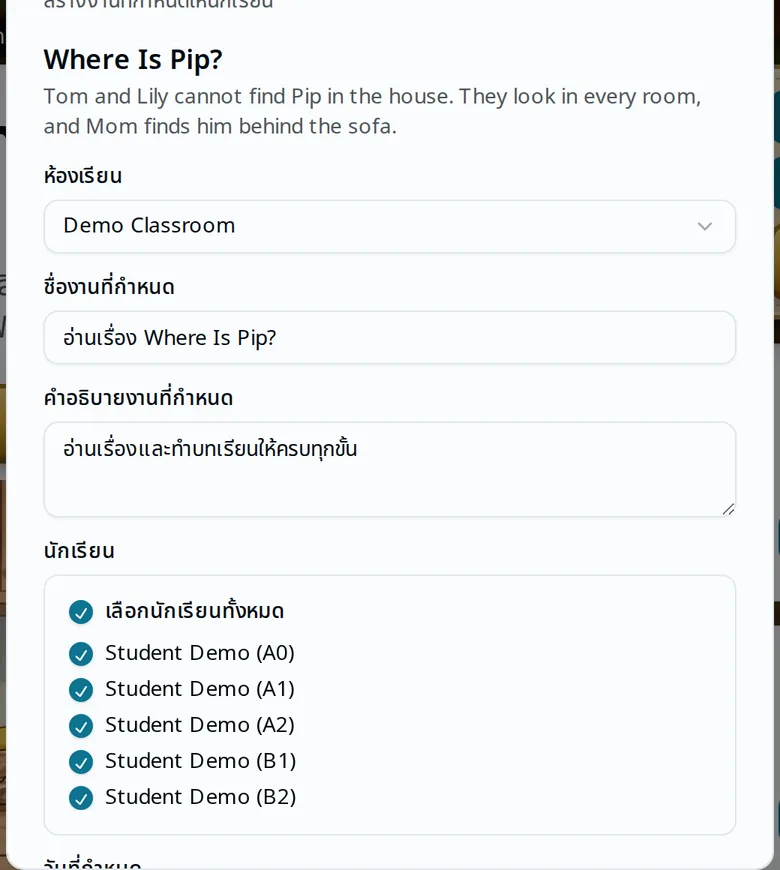
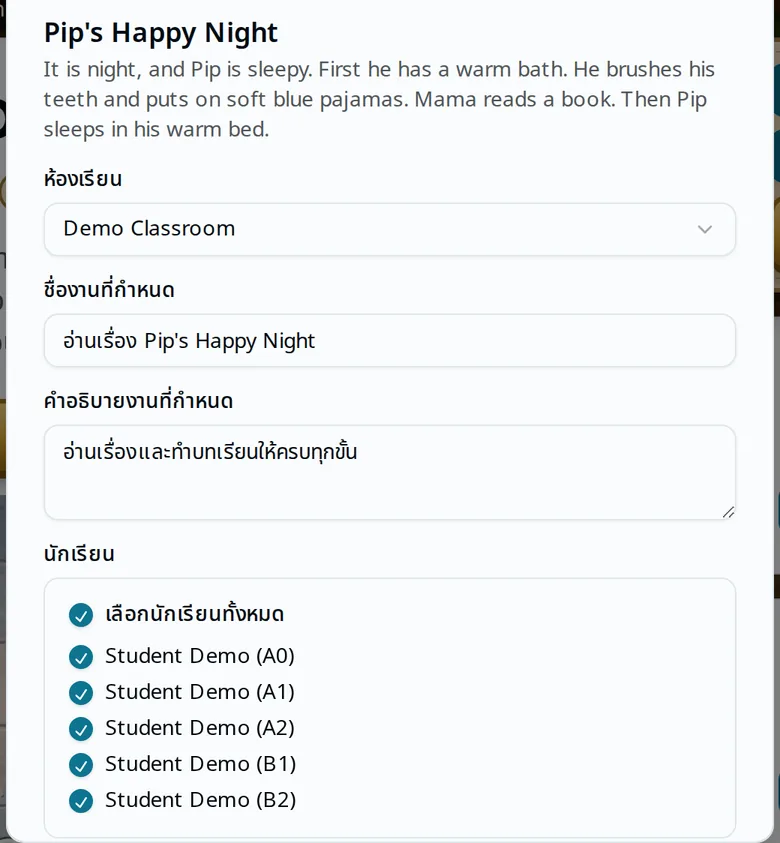
fix(primary): manual homework pictures (track_id: primary_teacher_books_lesson_support_20261003)
The articleAssign and assignForm pictures now show Origins 3.1 lesson 2
"Pip's Happy Night" in place of Origins 3.2 "Where Is Pip?" (PR option A).
The assignForm crop starts below the dialog subtitle, so no line is cut.

diff --git a/apps/primary-advantage/lib/teacher-manual-figures.ts b/apps/primary-advantage/lib/teacher-manual-figures.ts
@@ -40,7 +40,7 @@ export const MANUAL_FIGURES = {
   markTaught: { src: "/manual/markTaught.webp", width: 1455, height: 600, marks: [{ n: 2, x: 65.26, y: 26.25, w: 17.53, h: 11.0 }] },
   assignments: { src: "/manual/assignments.webp", width: 1920, height: 630, marks: [{ n: 1, x: 3.88, y: 66.48, w: 16.62, h: 11.36 }, { n: 1, x: 87.97, y: 15.67, w: 9.53, h: 10.48 }, { n: 5, x: 23.67, y: 66.64, w: 11.8, h: 10.48 }] },
   articleAssign: { src: "/manual/articleAssign.webp", width: 1470, height: 690, marks: [{ n: 3, x: 62.59, y: 30.43, w: 12.45, h: 7.83 }] },
-  assignForm: { src: "/manual/assignForm.webp", width: 780, height: 870, marks: [{ n: 4, x: 5.58, y: 22.93, w: 88.85, h: 6.21 }, { n: 4, x: 5.58, y: 35.69, w: 88.85, h: 6.21 }, { n: 4, x: 5.58, y: 48.45, w: 88.85, h: 11.03 }, { n: 4, x: 8.85, y: 68.97, w: 82.31, h: 24.14 }] },
+  assignForm: { src: "/manual/assignForm.webp", width: 780, height: 843, marks: [{ n: 4, x: 5.58, y: 24.02, w: 88.85, h: 6.41 }, { n: 4, x: 5.58, y: 37.19, w: 88.85, h: 6.41 }, { n: 4, x: 5.58, y: 50.36, w: 88.85, h: 11.39 }, { n: 4, x: 8.85, y: 71.53, w: 82.31, h: 24.91 }] },
   assignDue: { src: "/manual/assignDue.webp", width: 780, height: 780, marks: [{ n: 4, x: 8.08, y: 10.62, w: 83.85, h: 72.02 }, { n: 4, x: 85.19, y: 88.21, w: 9.23, h: 6.92 }] },
   classSheet: { src: "/manual/classSheet.webp", width: 1455, height: 570, marks: [{ n: 1, x: 2.58, y: 70.42, w: 15.15, h: 12.63 }] },
   classSheetConfirm: { src: "/manual/classSheetConfirm.webp", width: 780, height: 375, marks: [{ n: 2, x: 71.54, y: 71.2, w: 22.88, h: 14.4 }] },
